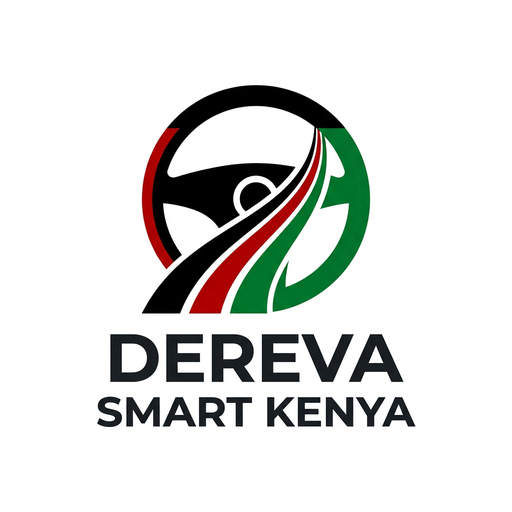
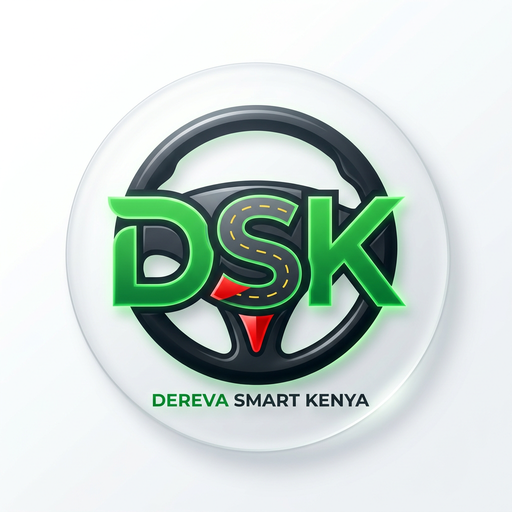
fix: resolve release build crashes and update target SDK
- Add ProGuard rules to prevent ClassCastException with Retrofit and Coroutines in release builds.
- Bump compileSdk and targetSdk to 35 to meet Google Play Console requirements.
- Bump versionCode to 5 and versionName to 1.0.3.
- Update app launcher icons and generate_assets.py script.
- Update version number displayed in HelpScreen.

diff --git a/dereva_smart_android/app/src/main/java/com/dereva/smart/ui/screens/help/HelpScreen.kt b/dereva_smart_android/app/src/main/java/com/dereva/smart/ui/screens/help/HelpScreen.kt
@@ -293,7 +293,7 @@ fun HelpScreen(navController: NavController) {
                 verticalArrangement = Arrangement.spacedBy(8.dp)
             ) {
                 Text(
-                    text = "Version 1.0.0",
+                    text = "Version 1.0.1",
                     style = MaterialTheme.typography.bodySmall,
                     color = MaterialTheme.colorScheme.onSurfaceVariant
                 )

diff --git a/dereva_smart_android/update_launcher.py b/dereva_smart_android/update_launcher.py
@@ -1,0 +1,63 @@
+import os
+from PIL import Image
+
+def resize_and_save(source_path, target_base_dir, filename_prefix):
+    source_img = Image.open(source_path)
+    
+    # Mipmap densities and sizes for ic_launcher (48dp base)
+    # mdpi: 48, hdpi: 72, xhdpi: 96, xxhdpi: 144, xxxhdpi: 192
+    densities = {
+        'mipmap-mdpi': 48,
+        'mipmap-hdpi': 72,
+        'mipmap-xhdpi': 96,
+        'mipmap-xxhdpi': 144,
+        'mipmap-xxxhdpi': 192
+    }
+    
+    for folder, size in densities.items():
+        folder_path = os.path.join(target_base_dir, folder)
+        os.makedirs(folder_path, exist_ok=True)
+        
+        # Save square legacy icon
+        img = source_img.resize((size, size), Image.Resampling.LANCZOS)
+        img.save(os.path.join(folder_path, f"{filename_prefix}.png"))
+        
+        # Save round legacy icon (circular crop)
+        round_img = Image.new('RGBA', (size, size), (0, 0, 0, 0))
+        from PIL import ImageDraw
+        mask = Image.new('L', (size, size), 0)
+        draw = ImageDraw.Draw(mask)
+        draw.ellipse((0, 0, size, size), fill=255)
+        round_img.paste(img, (0, 0), mask)
+        round_img.save(os.path.join(folder_path, f"{filename_prefix}_round.png"))
+
+def resize_foreground(source_path, target_base_dir):
+    source_img = Image.open(source_path)
+    
+    # Foreground size for adaptive icons is 108dp (center 72dp is safe zone)
+    # mdpi: 108, hdpi: 162, xhdpi: 216, xxhdpi: 324, xxxhdpi: 432
+    densities = {
+        'mipmap-mdpi': 108,
+        'mipmap-hdpi': 162,
+        'mipmap-xhdpi': 216,
+        'mipmap-xxhdpi': 324,
+        'mipmap-xxxhdpi': 432
+    }
+    
+    for folder, size in densities.items():
+        folder_path = os.path.join(target_base_dir, folder)
+        os.makedirs(folder_path, exist_ok=True)
+        
+        img = source_img.resize((size, size), Image.Resampling.LANCZOS)
+        img.save(os.path.join(folder_path, "ic_launcher_foreground.png"))
+
+if __name__ == "__main__":
+    res_dir = "/home/ngobiro/projects/Dereva Smart/dereva_smart_android/app/src/main/res"
+    
+    # Generate legacy icons from the Play Store icon
+    resize_and_save("app_icon_512.png", res_dir, "ic_launcher")
+    
+    # Generate foreground for adaptive icons
+    resize_foreground("ic_launcher_foreground_source.png", res_dir)
+    
+    print("Launcher assets updated successfully.")

diff --git a/dereva_smart_android/generate_assets.py b/dereva_smart_android/generate_assets.py
@@ -59,13 +59,24 @@ def generate_image(prompt, aspect_ratio, output_filename, resize_dimensions=None
         print(f"Error generating {output_filename}: {e}")
 
 if __name__ == "__main__":
-    # App Icon (512x512)
+    # App Icon (512x512) - For Play Store
     generate_image(
-        prompt="A modern, minimalist, flat vector logo for a driving school app in Kenya. It features a stylized steering wheel and an open road with the colors of the Kenyan flag (black, red, green, white). The text 'Dereva Smart Kenya' should be clearly integrated into the design. Clean, flat design, white background. Professional, high quality.",
+        prompt="A premium, modern app icon for a driving school app. The design features the initials 'DSK' (for Dereva Smart Kenya) in a bold, sleek, and high-tech font. The letters are creatively integrated with a minimalist steering wheel or an abstract winding road. Vibrant professional colors (vivid green, charcoal black, and a touch of red). Smooth 3D glassmorphism or clean flat vector style. High contrast, clean white background, professional and high-quality aesthetic.",
         aspect_ratio="1:1",
         output_filename="app_icon_512.png",
         resize_dimensions=(512, 512)
     )
+
+    # Launcher Foreground (512x512) - Transparent background
+    generate_image(
+        prompt="A high-quality, professional logo of the initials 'DSK' (Dereva Smart Kenya) integrated with a minimalist steering wheel. Bold, modern font. Vibrant green and charcoal black colors. TRANSPARENT BACKGROUND, no shadows, no background container. Centered and balanced. This will be used as a mobile app launcher foreground.",
+        aspect_ratio="1:1",
+        output_filename="ic_launcher_foreground_source.png",
+        resize_dimensions=(512, 512)
+    )
+
+    # Disable other generations to save time
+    '''
 
     # Feature Graphic (1024x500)
     generate_image(
@@ -119,3 +130,4 @@ if __name__ == "__main__":
             output_filename=filename,
             resize_dimensions=(1600, 2560)
         )
+    '''
